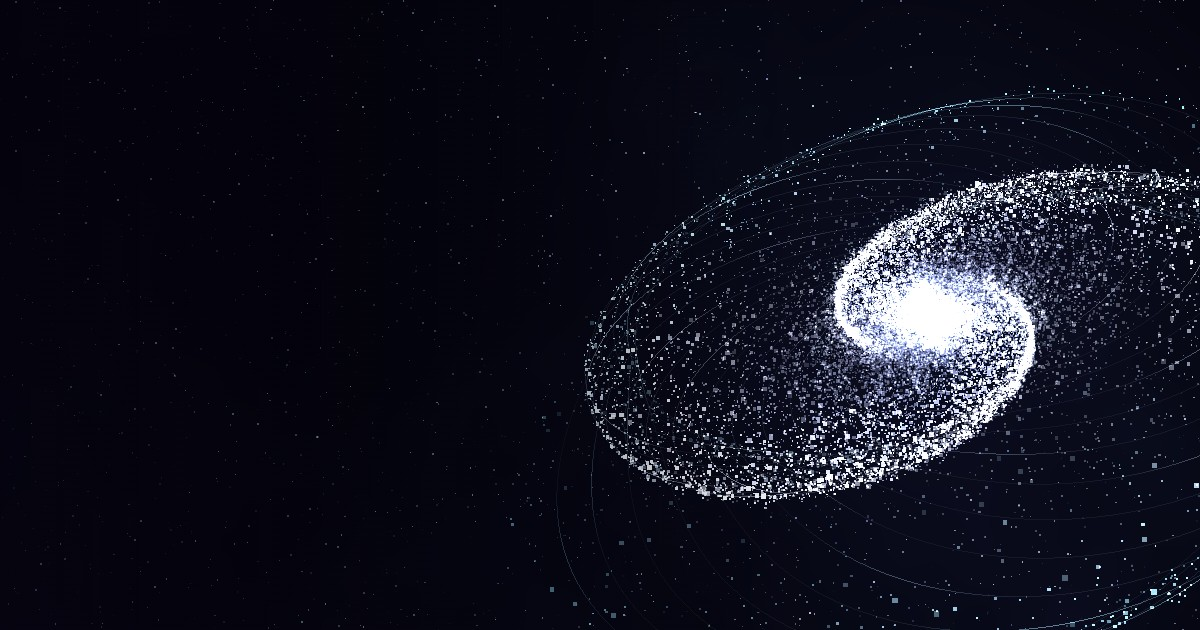
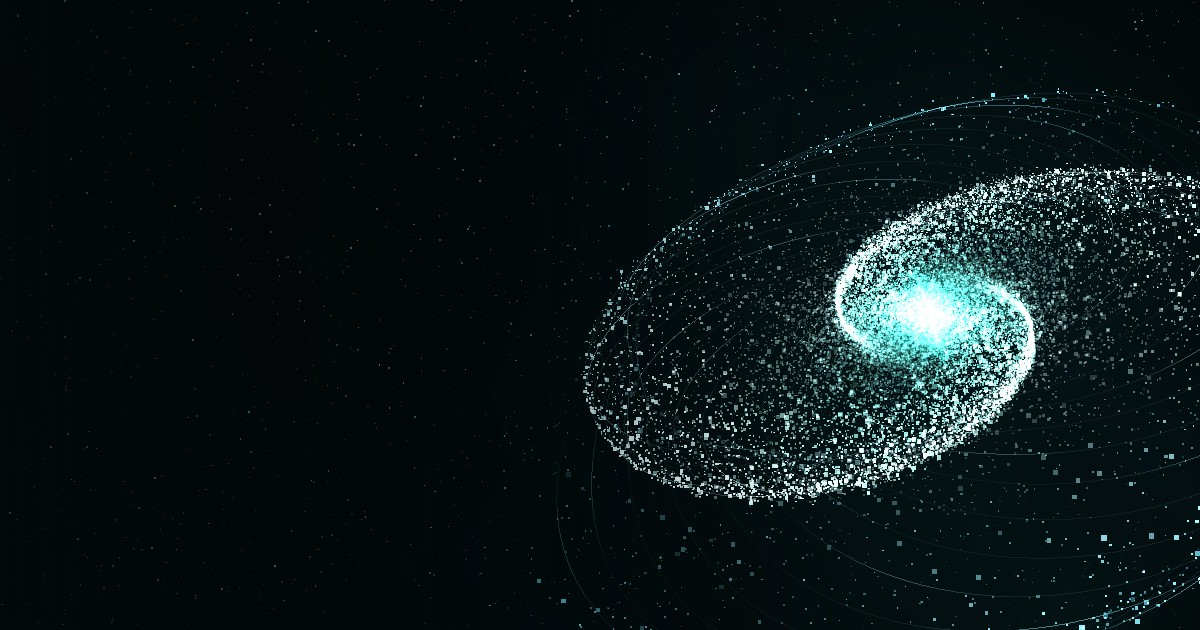
Teal brand colors across the site
Follows the new teal rg logo: the violet-cyan accents become a deep
teal to aqua gradient, and light backgrounds a pale mint instead of
lavender.

- Name in the hero, page titles and buttons use the teal gradient;
  text and buttons on light backgrounds use teal-700 for contrast
- Links, selection, card hover borders, tag checkboxes, search focus,
  work roles and the footer status dot in teal
- Light backgrounds (hero, 404, theme-color) mint; dark ones teal-black
- Galaxy: new "teal" palette for the site's look, mint and teal-black
  skies, and teal palettes for the 2D fallback
- Social images re-rendered with the teal galaxy and name gradient

diff --git a/src/lib/galaxy-gl.ts b/src/lib/galaxy-gl.ts
@@ -9,7 +9,7 @@
 // Every visual choice is a parameter (GalaxyParams), so the look can be tuned
 // live; the galaxy lab uses setParams() for that.
 
-export type Palette = "realistic" | "brand" | "aurora" | "mono" | "ember"
+export type Palette = "realistic" | "brand" | "aurora" | "mono" | "ember" | "teal"
 
 export type GalaxyParams = {
   // Shape
@@ -76,6 +76,7 @@ const palettes: Record<Palette, { stops: Rgb[]; core: Rgb; nebula: Rgb; sky: Rgb
   brand: { stops: [[0.55, 0.36, 0.96], [0.77, 0.71, 0.99], [0.13, 0.83, 0.93]], core: [0.82, 0.88, 1], nebula: [0.45, 0.3, 0.95], sky: [[0.3, 0.12, 0.55], [0.05, 0.4, 0.55]] },
   aurora: { stops: [[0.18, 0.83, 0.75], [0.65, 0.55, 0.98], [0.96, 0.45, 0.71]], core: [0.88, 0.95, 1], nebula: [0.18, 0.83, 0.75], sky: [[0.05, 0.35, 0.4], [0.3, 0.12, 0.45]] },
   mono: { stops: [[0.62, 0.68, 0.95], [0.95, 0.96, 1], [0.6, 0.94, 1]], core: [1, 1, 1], nebula: [0.55, 0.6, 0.95], sky: [[0.12, 0.14, 0.3], [0.08, 0.2, 0.3]] },
+  teal: { stops: [[0.18, 0.72, 0.66], [0.88, 0.98, 0.96], [0.4, 0.88, 1]], core: [0.92, 1, 0.98], nebula: [0.18, 0.75, 0.68], sky: [[0.04, 0.24, 0.24], [0.03, 0.16, 0.26]] },
   ember: { stops: [[0.98, 0.45, 0.09], [0.98, 0.75, 0.14], [1, 0.95, 0.8]], core: [1, 0.88, 0.66], nebula: [0.98, 0.3, 0.2], sky: [[0.4, 0.1, 0.08], [0.35, 0.18, 0.05]] },
 }
 const ink = (c: Rgb): Rgb => [c[0] * 0.55, c[1] * 0.5, c[2] * 0.6]
@@ -317,15 +318,15 @@ void main() {
   float n2 = fbm(q * 1.7 - vec2(0.0, uTime * 0.009) + 5.0);
   float glow = exp(-dot(uv, uv) * 1.4);
 
-  vec3 dark = vec3(0.012, 0.009, 0.04)
+  vec3 dark = vec3(0.006, 0.018, 0.02)
     + uSky0 * pow(n1, 3.0) * 0.55 * uSky
     + uSky1 * pow(n2, 4.0) * 0.45 * uSky
     + mix(uSky0, uSky1, 0.3) * glow * 0.6 * uSky;
-  vec3 light = vec3(0.953, 0.941, 1.0)
+  vec3 light = vec3(0.933, 0.973, 0.965)
     - (vec3(1.0) - uSky0) * 0.12 * pow(n1, 3.0) * uSky
     - (vec3(1.0) - uSky1) * 0.1 * pow(n2, 4.0) * uSky
     - vec3(0.06, 0.08, 0.0) * glow * 0.5 * uSky;
-  vec3 base = mix(vec3(0.02, 0.016, 0.06), vec3(0.953, 0.941, 1.0), uLight);
+  vec3 base = mix(vec3(0.01, 0.03, 0.035), vec3(0.933, 0.973, 0.965), uLight);
   outColor = vec4(mix(base, mix(dark, light, uLight), uFade) * uAlpha, uAlpha);
 }`
 

diff --git a/src/lib/galaxy.ts b/src/lib/galaxy.ts
@@ -21,23 +21,23 @@ const mix = (a: Rgb, b: Rgb, t: number) =>
 const ramp = (from: Rgb, to: Rgb) => Array.from({ length: 5 }, (_, i) => mix(from, to, i / 4))
 
 const DARK: Palette = {
-  bg: ["#1a1235", "#0a0820", "#020207"],
+  bg: ["#0f2a2c", "#061416", "#020607"],
   star: "#ffffff",
-  halo: ["rgba(167,139,250,.22)", "rgba(34,211,238,0)"],
+  halo: ["rgba(45,212,191,.2)", "rgba(34,211,238,0)"],
   core: ["rgba(255,248,235,.95)", "rgba(255,210,170,.35)", "rgba(255,180,140,0)"],
-  nova: ["255,255,255", "103,232,249", "196,181,253"],
-  colors: ["#fff4e6", "#ffd6aa", "#ff82d2", ...ramp([196, 181, 253], [103, 232, 249])],
+  nova: ["255,255,255", "103,232,249", "94,234,212"],
+  colors: ["#fff4e6", "#ffd6aa", "#a5f3fc", ...ramp([153, 246, 228], [103, 232, 249])],
   blend: "lighter",
   alpha: 1,
 }
 
 const LIGHT: Palette = {
-  bg: ["#e9e3ff", "#f3f0ff", "#fcfbff"],
-  star: "#312e81",
-  halo: ["rgba(124,58,237,.12)", "rgba(124,58,237,0)"],
+  bg: ["#dcf1ed", "#eef8f6", "#fbfefd"],
+  star: "#134e4a",
+  halo: ["rgba(15,118,110,.12)", "rgba(15,118,110,0)"],
   core: ["rgba(251,191,36,.75)", "rgba(249,115,22,.22)", "rgba(249,115,22,0)"],
-  nova: ["124,58,237", "8,145,178", "109,40,217"],
-  colors: ["#b45309", "#d97706", "#db2777", ...ramp([109, 40, 217], [14, 116, 144])],
+  nova: ["15,118,110", "8,145,178", "15,118,110"],
+  colors: ["#b45309", "#d97706", "#0e7490", ...ramp([15, 118, 110], [8, 145, 178])],
   blend: "source-over",
   alpha: 0.8,
 }

diff --git a/src/pages/og/[lang]/[collection]/[slug].jpg.ts b/src/pages/og/[lang]/[collection]/[slug].jpg.ts
@@ -67,11 +67,11 @@ export const GET: APIRoute = async ({ props }) => {
   const titleSize = title.length > 60 ? 52 : title.length > 36 ? 62 : 74
 
   const svg = await satori(
-    el("div", { width: 1200, height: 630, display: "flex", backgroundColor: "#05040f", backgroundImage: `url(${background})`, backgroundSize: "1200px 630px", fontFamily: "Space Grotesk", color: "#ffffff" }, [
+    el("div", { width: 1200, height: 630, display: "flex", backgroundColor: "#03090b", backgroundImage: `url(${background})`, backgroundSize: "1200px 630px", fontFamily: "Space Grotesk", color: "#ffffff" }, [
       el("div", { display: "flex", flexDirection: "column", justifyContent: "center", width: 760, height: "100%", padding: "0 72px" }, [
         el("div", { display: "flex", alignItems: "center" }, [
           el("img", { width: 48, height: 48, marginRight: 16 }, undefined, { src: logo, width: 48, height: 48 }),
-          el("div", { fontSize: 22, fontWeight: 500, letterSpacing: 6, color: "#a5b4fc" },
+          el("div", { fontSize: 22, fontWeight: 500, letterSpacing: 6, color: "#5eead4" },
             `ROLANDO.GR · ${t(entry.collection === "blog" ? "og.blog" : "og.projects").toUpperCase()}`),
         ]),
         el("div", { fontSize: titleSize, fontWeight: 700, lineHeight: 1.05, letterSpacing: -1, marginTop: 30 }, title),

diff --git a/src/components/EntryList.tsx b/src/components/EntryList.tsx
@@ -48,7 +48,7 @@ export default function EntryList({ data, tags, lang }: Props) {
               {(tag) => (
                 <li>
                   <button onClick={() => toggleTag(tag)} class={cn("w-full px-2 py-1 rounded", "whitespace-nowrap overflow-hidden overflow-ellipsis", "flex gap-2 items-center", "bg-black/5 dark:bg-white/10", "hover:bg-black/10 hover:dark:bg-white/15", "transition-colors duration-300 ease-in-out", filter().has(tag) && "text-black dark:text-white")}>
-                    <svg class={cn("size-5 fill-black/50 dark:fill-white/50", "transition-colors duration-300 ease-in-out", filter().has(tag) && "fill-violet-600 dark:fill-violet-300")}>
+                    <svg class={cn("size-5 fill-black/50 dark:fill-white/50", "transition-colors duration-300 ease-in-out", filter().has(tag) && "fill-teal-700 dark:fill-teal-300")}>
                       <use href={`/ui.svg#square`} class={cn(!filter().has(tag) ? "block" : "hidden")} />
                       <use href={`/ui.svg#square-check`} class={cn(filter().has(tag) ? "block" : "hidden")} />
                     </svg>

diff --git a/src/components/Search.tsx b/src/components/Search.tsx
@@ -39,7 +39,7 @@ export default function Search({data, lang}: Props) {
   return (
     <div class="flex flex-col">
       <div class="relative">
-        <input name="search" type="text" value={query()} onInput={onInput} autocomplete="off" spellcheck={false} placeholder={t("search.placeholder")} class="w-full px-2.5 py-1.5 pl-10 rounded outline-none text-black dark:text-white bg-black/5 dark:bg-white/15 border border-black/10 dark:border-white/20 focus:border-violet-600 focus:dark:border-violet-300"/>
+        <input name="search" type="text" value={query()} onInput={onInput} autocomplete="off" spellcheck={false} placeholder={t("search.placeholder")} class="w-full px-2.5 py-1.5 pl-10 rounded outline-none text-black dark:text-white bg-black/5 dark:bg-white/15 border border-black/10 dark:border-white/20 focus:border-teal-700 focus:dark:border-teal-300"/>
         <svg class="absolute size-6 left-1.5 top-1/2 -translate-y-1/2 stroke-current">
           <use href={`/ui.svg#search`}/>
         </svg>

diff --git a/src/lib/galaxy-look.ts b/src/lib/galaxy-look.ts
@@ -1,11 +1,12 @@
 // The galaxy's look on the site, chosen in the galaxy lab: the "Data orbits"
 // preset (orbit lines with traveling pulses, square particles colored by
-// radius) at an inclined, diagonal angle, with a gentler pointer.
+// radius) at an inclined, diagonal angle, with a gentler pointer. Its
+// palette follows the teal brand.
 import type { GalaxyParams } from "@lib/galaxy-gl"
 
 export const siteGalaxy: Partial<GalaxyParams> = {
   arms: 2, twist: 4.8, lobe: 0.32, armContrast: 1.2, thickness: 0.012, bulge: 0.12, coreGlow: 0.4, innerDim: 0.9,
-  palette: "mono", colorBy: "radius", sprite: "square", starSize: 0.8, brightness: 1, twinkle: 0,
+  palette: "teal", colorBy: "radius", sprite: "square", starSize: 0.8, brightness: 1, twinkle: 0,
   nebulae: 0, dust: 0, sky: 0.4, bgStars: 2400,
   speed: 1.5, trails: 0, orbitLines: 0.55, orbitLineCount: 28,
   tilt: 0.6, roll: -0.3, yaw: 0.1, distance: 3.2, autoSpin: 0, parallax: 1, scrollMode: "tilt",

diff --git a/src/components/ArrowCard.tsx b/src/components/ArrowCard.tsx
@@ -12,7 +12,7 @@ type Props = {
 export default function ArrowCard({entry, lang, pill}: Props) {
     const t = useTranslations(lang)
     return (
-      <a href={entryUrl(entry)} class="group p-4 gap-3 flex items-center border rounded-lg hover:bg-black/5 hover:dark:bg-white/10 border-black/15 dark:border-white/20 hover:border-violet-500/40 dark:hover:border-violet-300/40 transition-colors duration-300 ease-in-out">
+      <a href={entryUrl(entry)} class="group p-4 gap-3 flex items-center border rounded-lg hover:bg-black/5 hover:dark:bg-white/10 border-black/15 dark:border-white/20 hover:border-teal-500/40 dark:hover:border-teal-300/40 transition-colors duration-300 ease-in-out">
       <div class="w-full group-hover:text-black group-hover:dark:text-white blend">
         <div class="flex flex-wrap items-center gap-2">
           {pill &&

diff --git a/src/styles/global.css b/src/styles/global.css
@@ -78,8 +78,8 @@ article {
 
 .page-heading {
   @apply w-fit font-display text-4xl md:text-5xl font-bold tracking-tight;
-  @apply bg-gradient-to-r from-violet-600 to-cyan-600 bg-clip-text text-transparent;
-  @apply dark:from-violet-300 dark:to-cyan-300;
+  @apply bg-gradient-to-r from-teal-700 to-cyan-600 bg-clip-text text-transparent;
+  @apply dark:from-teal-300 dark:to-cyan-300;
 }
 
 article :is(h1, h2, h3, h4) {
@@ -87,11 +87,11 @@ article :is(h1, h2, h3, h4) {
 }
 
 article a {
-  @apply decoration-violet-500/60 underline-offset-2 hover:decoration-violet-500;
+  @apply decoration-teal-500/60 underline-offset-2 hover:decoration-teal-500;
 }
 
 ::selection {
-  @apply bg-violet-500/25;
+  @apply bg-teal-500/25;
 }
 
 .blend {
